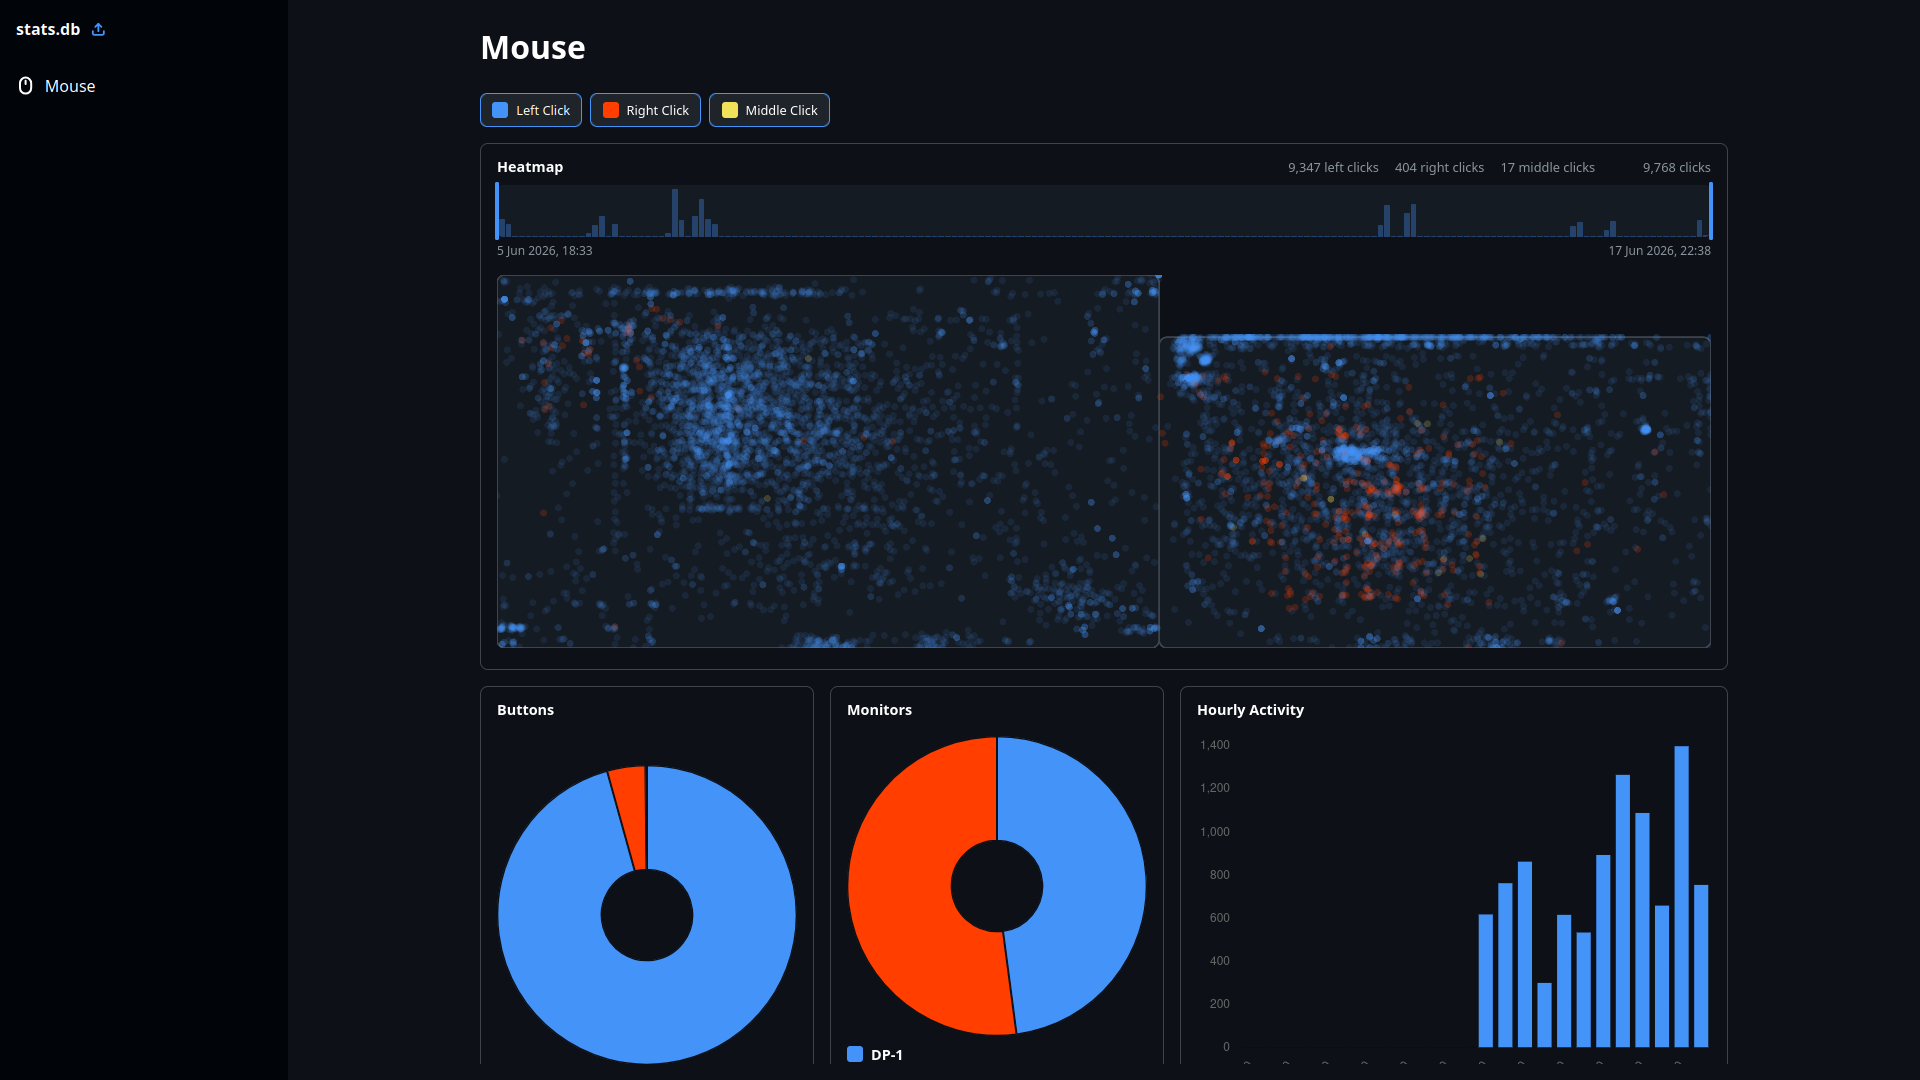
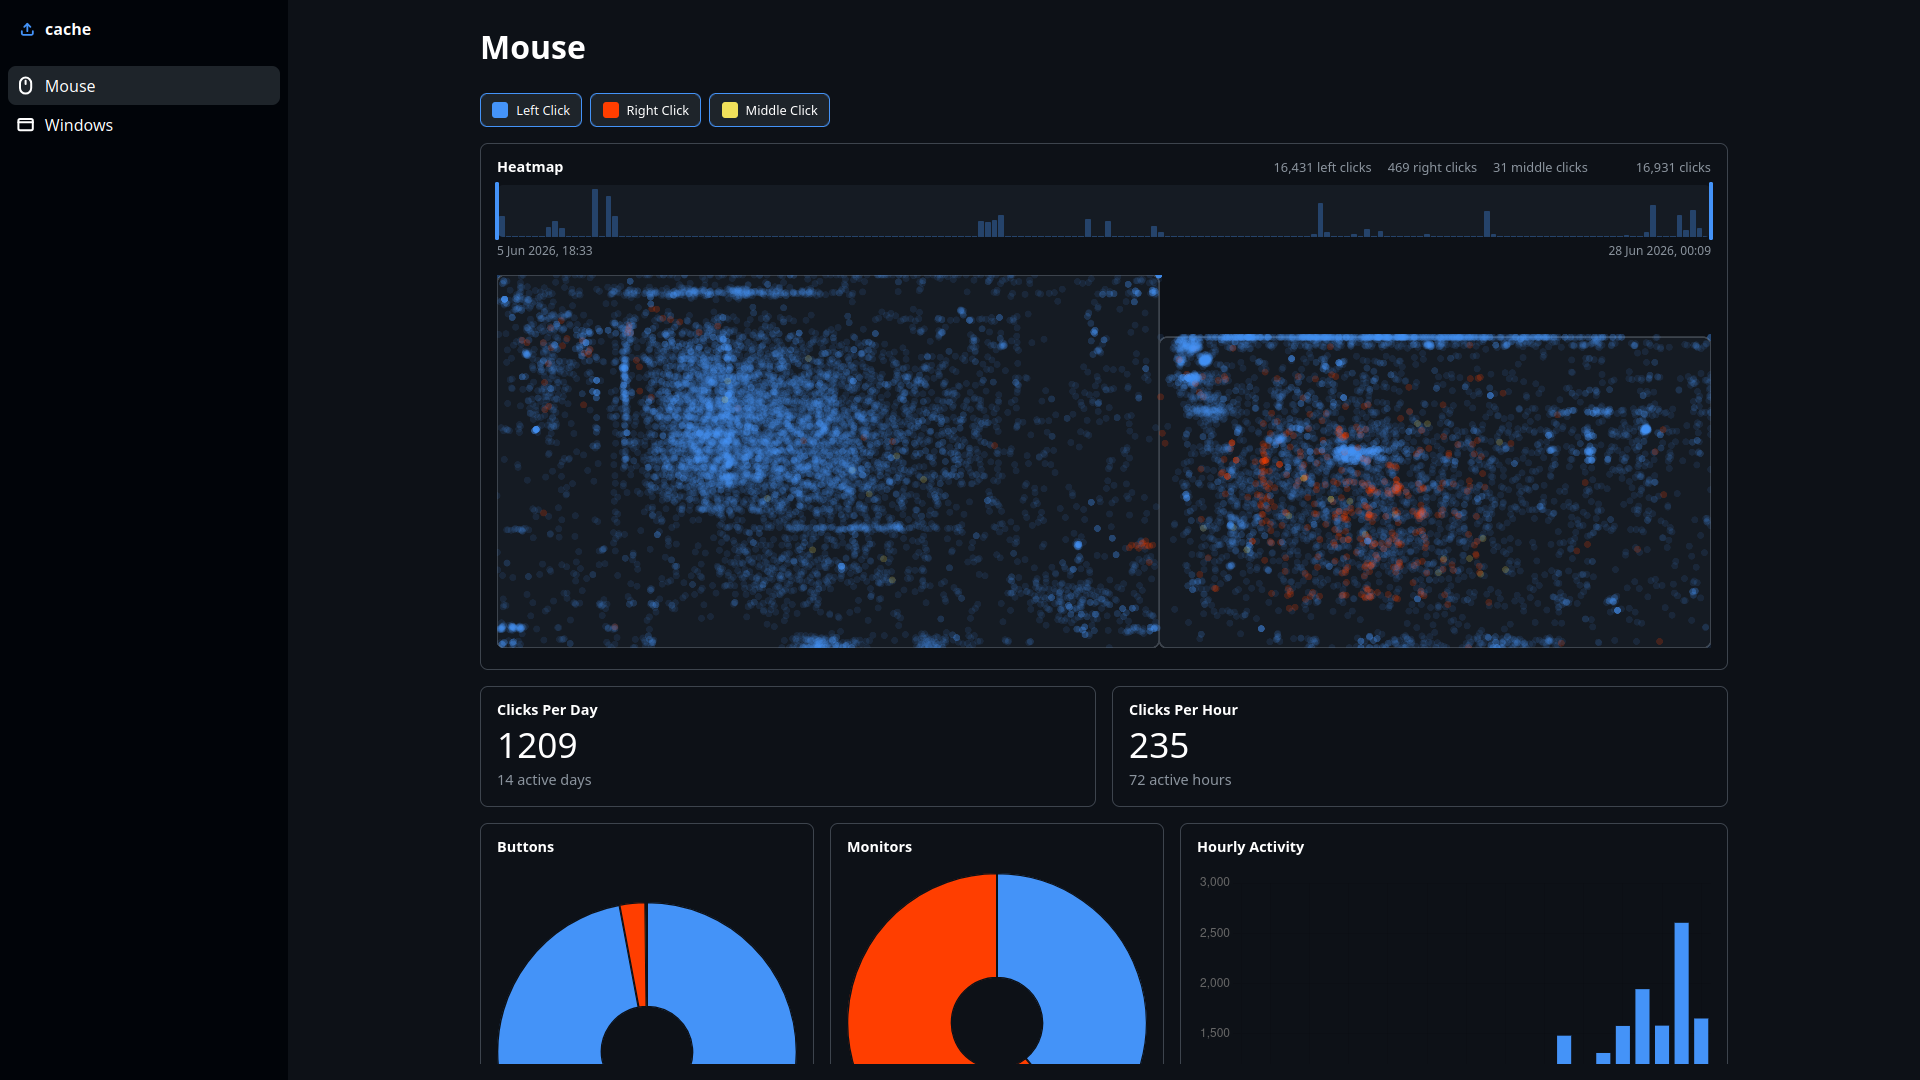
Update README.md

diff --git a/README.md b/README.md
@@ -2,7 +2,7 @@
 
 ![Dashboard Screenshot](images/dashboard.png)
 
-PC Stats records mouse click activity on Linux and visualises it in a browser dashboard. The collector runs locally, writes click and monitor data to a SQLite database, and the dashboard reads that database to show heatmaps and charts.
+PC Stats records mouse click and window activity on Linux and visualises it in a browser dashboard. The collector runs locally, writes data to a SQLite database, and the dashboard reads that database to show heatmaps, charts, and app usage statistics.
 
 ## What It Tracks
 
@@ -10,6 +10,9 @@ PC Stats records mouse click activity on Linux and visualises it in a browser da
 - Click timestamp
 - Click button: left, right, or middle
 - Current monitor layout and monitor names
+- Open application windows
+- Active app and current desktop/workspace
+- Window position and size snapshots
 
 The collector writes data to:
 
@@ -17,10 +20,18 @@ The collector writes data to:
 ~/.local/share/pc-stats/stats.db
 ```
 
+Collector settings are stored at:
+
+```bash
+~/.local/share/pc-stats/config.yaml
+```
+
 The database contains:
 
 - `clicks(id, timestamp, x, y, button)`
 - `monitors(id, name, x, y, width, height)`
+- `window_snapshots(id, timestamp, active, current_desktop)`
+- `windows(ssid, name, pid, desktop, x, y, width, height)`
 
 ## Dashboard - `dashboard/`
 
@@ -30,7 +41,15 @@ The hosted dashboard is available at:
 https://pc-stats.dubbyy.com
 ```
 
-Use **Import Data** and select your `stats.db` file. An example database is included at:
+Use **Import Data** and select your `stats.db` file. The dashboard runs in the browser using `sql.js`; imported databases are cached locally in the browser so the last imported file can be reopened automatically.
+
+You can also load a database URL with the `db` query parameter:
+
+```text
+https://pc-stats.dubbyy.com?db=https://example.com/stats.db
+```
+
+An example database is included at:
 
 ```text
 examples/stats.db
@@ -45,6 +64,10 @@ The dashboard currently includes:
 - Monitor breakdown chart
 - Hourly activity chart
 - Daily activity chart
+- Windows section
+- App frequency, focus, and screen dominance statistics
+- Window geometry visualisation
+- Desktop/workspace breakdown
 
 ### Running The Dashboard Locally
 
@@ -73,6 +96,12 @@ dashboard/build
 
 The collector runs in the background to collect the data. It also has a small status window.
 
+The status window shows pending/stored clicks, the current mouse device, the last active app, and the number of window snapshots taken. It also includes:
+
+- Snapshot interval setting
+- Pause/resume tracking
+- Stop button
+
 ### Platform Support
 
 Due to the low-level nature of the input monitoring, the collector is Linux only.
@@ -83,7 +112,10 @@ Due to the low-level nature of the input monitoring, the collector is Linux only
 | X11 | Supported |
 | GNOME Wayland | Partial |
 | Hyprland | Partial |
+| Sway | Partial |
 | Other | Unsupported |
+
+KDE Wayland uses KWin scripting for window data. X11 uses Xlib/EWMH window properties. Hyprland uses `hyprctl`. Sway uses `swaymsg`. GNOME Wayland has limited support because global window information generally requires a GNOME Shell extension.
 
 ### First-Time Setup
 
@@ -95,7 +127,7 @@ sudo usermod -aG input $USER
 
 Log out and back in after running that command.
 
-Some systems may also require `python-xlib` and Qt/PySide runtime dependencies for source builds.
+Some systems may also require `python-xlib`, PyYAML, and Qt/PySide runtime dependencies for source builds.
 
 ### Running From Source
 
